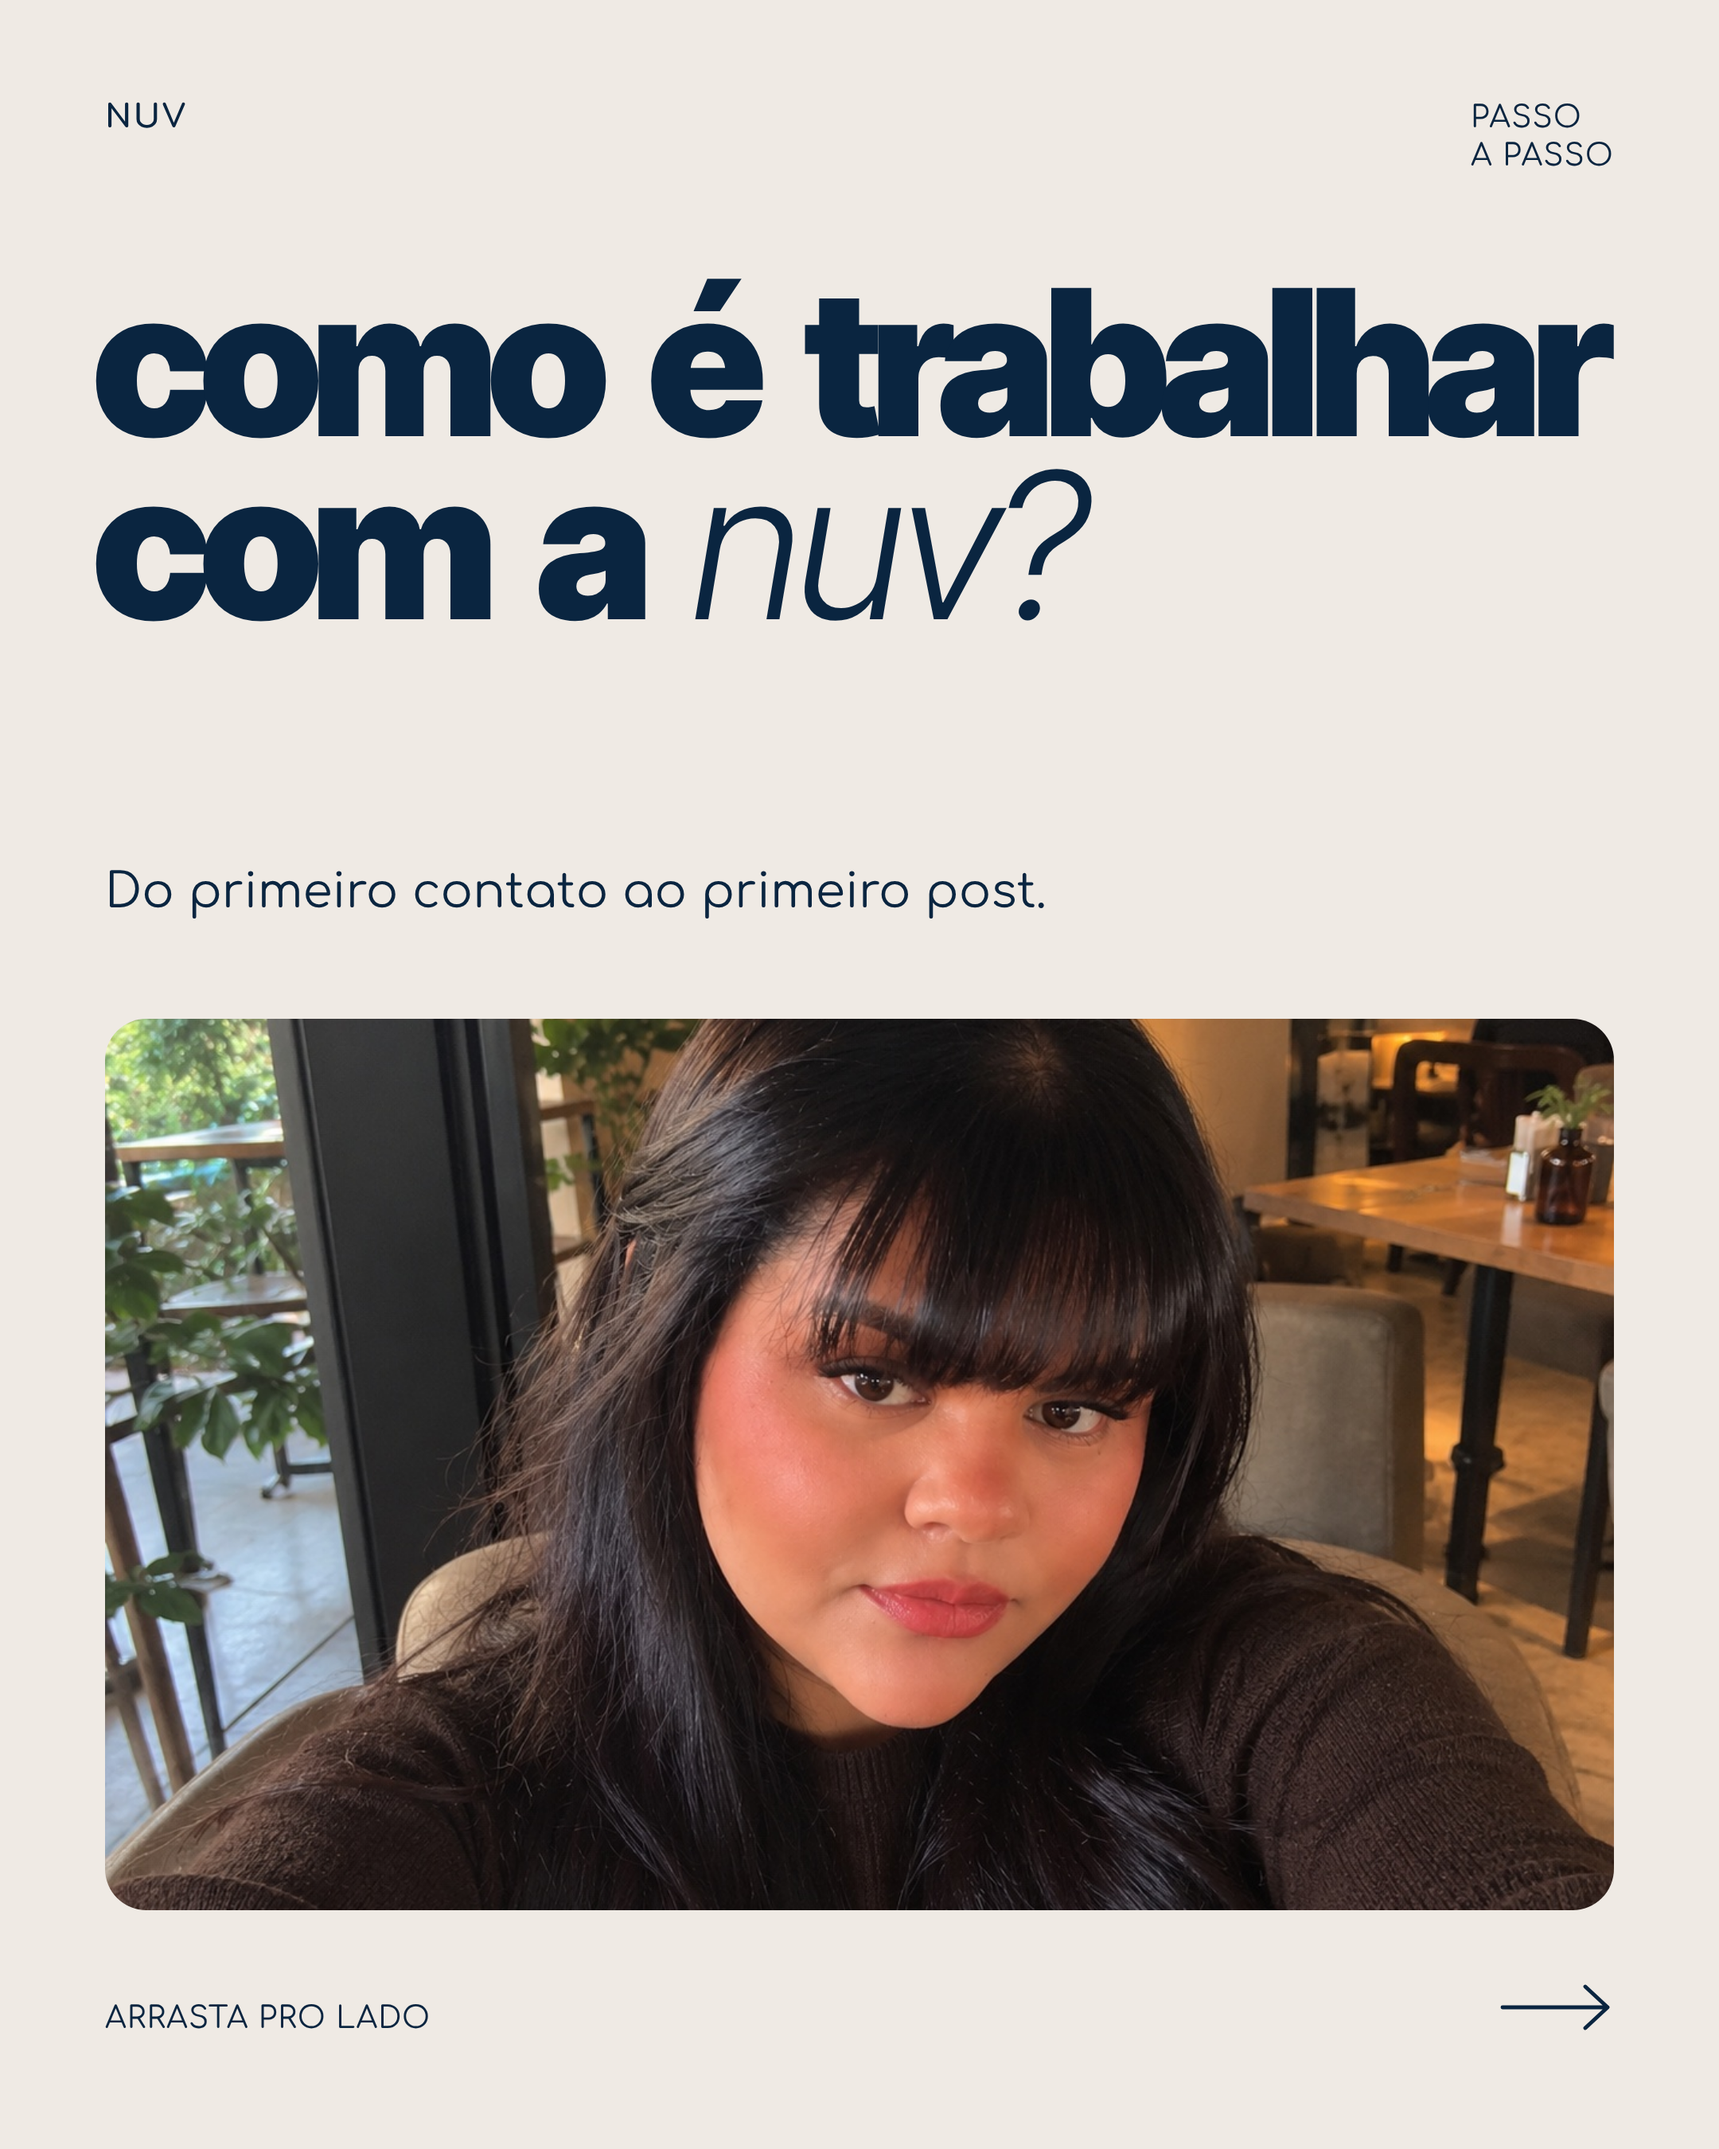
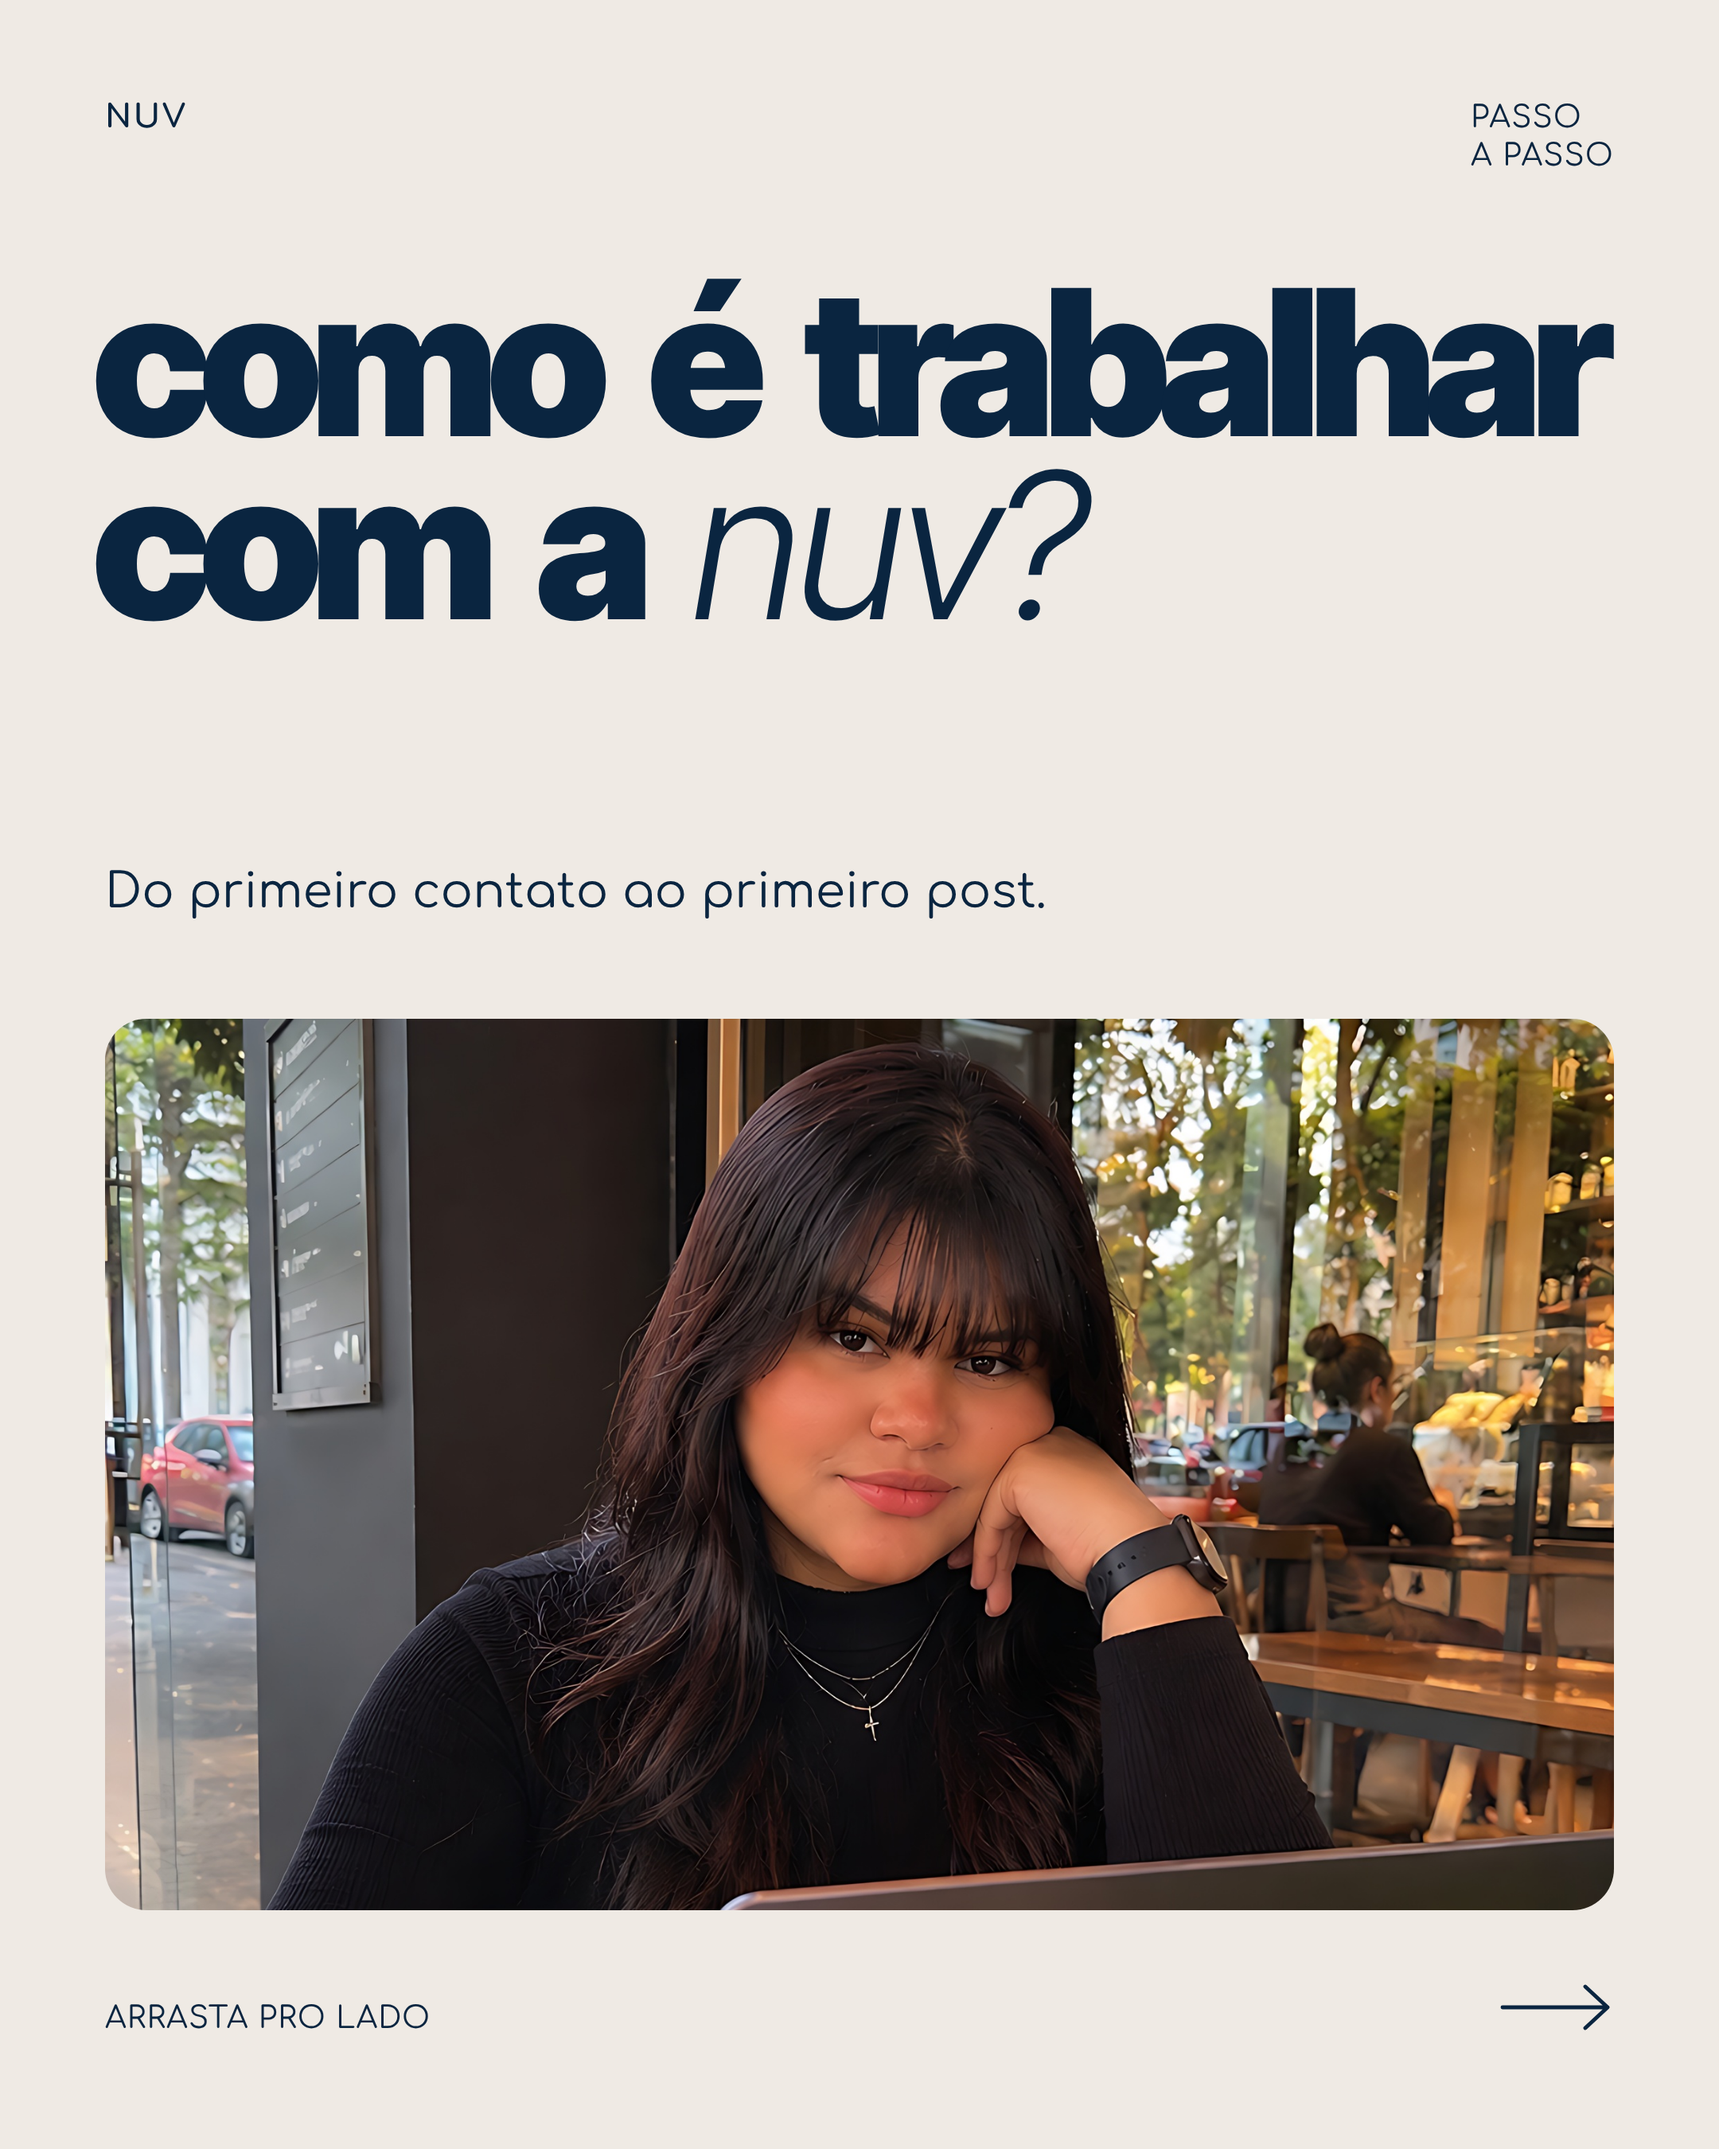
Trello posts: new client photos and textures, fewer repeated images
Claude-Session: https://claude.ai/code/session_01EMPiZm8vwXxfPYZ7GnxN3Y

Changed region(s): [[0.062, 0.4667, 0.9616, 0.9022]]

diff --git a/nuv-posts-trello/index.html b/nuv-posts-trello/index.html
@@ -43,7 +43,10 @@ const IMG = { // [arquivo, largura, altura] das fotos originais
   selfie: ['fotos-hd/selfie-cafe.jpg', 1254, 1254], escada: ['fotos-hd/retrato-escada.jpg', 941, 1672],
   escuro: ['fotos-hd/notebook-escuro.jpg', 736, 1104], mesa: ['fotos-hd/mesa-janela.jpg', 1200, 1616],
   gelado: ['fotos-hd/cafe-gelado.jpg', 1200, 1500], sofa: ['fotos-hd/notebook-sofa.jpg', 1080, 1920],
-  tablet: ['fotos-hd/tablet-cafe.jpg', 1122, 1402], close: ['fotos-hd/close-celular.jpg', 941, 1672],
+  tablet: ['fotos-hd/tablet-cafe.jpg', 1122, 1402],
+  isaNoite: ['fotos-hd/isa-noite.jpg', 1086, 1448], isaNote: ['fotos-hd/isa-notebook.jpg', 1086, 1448], isaRua: ['fotos-hd/isa-rua.jpg', 1086, 1448],
+  mesaAzul: ['fotos-hd/mesa-azul.jpg', 736, 1308], maoCel: ['fotos-hd/mao-celular.jpg', 1038, 1294], blazer: ['fotos-hd/cadeira-blazer.jpg', 922, 1382],
+  ripada: ['fotos-hd/textura-ripada.jpg', 1080, 1846], listras: ['fotos-hd/textura-listras.jpg', 1200, 2133], lua: ['fotos-hd/cidade-lua.jpg', 1159, 2576], close: ['fotos-hd/close-celular.jpg', 941, 1672],
 };
 // foto preenchendo uma caixa w x h; fx/fy = ponto focal (0..1); zoom > 1 aproxima
 const photo = (key, w, h, fx = .5, fy = .5, zoom = 1, extra = '') => {
@@ -97,16 +100,16 @@ const DARKF = 'brightness(.66) contrast(1.12) saturate(.9)';
 const POSTS = {
   // Card "O que a NUV faz por você (serviços, fixar)"
   servicos: [
-    [false, capa({ lab: 'nossos<br>serviços', title: 'o que a nuv faz <em>por você</em>', sub: 'Escolhe o que o seu negócio precisa agora.', ph: { key: 'escada', top: 640, fx: .5, fy: .52 }, foot: 'arrasta pro lado' })],
-    [true, fullA({ dark: true, lab: 'serviço 01', key: 'escuro', fx: .6, filter: 'brightness(.72) contrast(1.1)', title: 'gestão de redes <em>sociais</em>', tw: 700, lead: 'A gente planeja, cria e posta, <b>e você só aprova.</b>', leadAt: 'bottom' })],
+    [false, capa({ lab: 'nossos<br>serviços', title: 'o que a nuv faz <em>por você</em>', sub: 'Escolhe o que o seu negócio precisa agora.', ph: { key: 'isaRua', top: 640, fx: .5, fy: .34 }, foot: 'arrasta pro lado' })],
+    [false, fullA({ lab: 'serviço 01', key: 'maoCel', fx: .3, fy: .5, zoom: 1.08, title: 'gestão de redes <em>sociais</em>', size: 132, tw: 520, lead: 'A gente planeja, cria e posta, <b>e você só aprova.</b>', leadAt: 'bottom', lw: 380 })],
     [false, fullA({ lab: 'serviço 02', key: 'mesa', fy: .45, title: 'sites e <em>landing pages</em>', size: 128, tw: 960, lead: 'Páginas pensadas pra apresentar o seu negócio e <b>transformar visita em contato.</b>', leadTop: 460, lw: 560 })],
-    [true, fullA({ dark: true, lab: 'serviço 03', key: 'tablet', fx: .3, fy: .4, zoom: 1.22, filter: DARKF, title: 'estratégia <em>digital</em>', size: 140, tw: 800, lead: 'A gente olha o seu negócio, define o caminho e <b>organiza o que precisa ser feito.</b>', leadTop: 470, lw: 380 })],
-    [false, fullA({ lab: 'serviço 04', key: 'ceu', fy: .3, title: 'identidade <em>visual</em>', size: 140, lead: 'Cores, fontes e elementos que deixam a sua marca <b>reconhecível em qualquer lugar.</b>', leadTop: 470, lw: 640 })],
-    [true, cta({ title: 'ficou na <em>dúvida?</em>', text: { top: 410, t: 'Me conta o momento do seu negócio no direct, que eu te indico <b>o melhor caminho</b> e mando o orçamento.' }, ph: { key: 'gelado', fx: .5, fy: .5 } })],
+    [true, fullA({ dark: true, lab: 'serviço 03', key: 'lua', fx: .5, fy: .22, filter: 'brightness(.9)', title: 'estratégia <em>digital</em>', size: 140, tw: 800, lead: 'A gente olha o seu negócio, define o caminho e <b>organiza o que precisa ser feito.</b>', leadTop: 470, lw: 400, leadLeft: 440 })],
+    [false, fullA({ lab: 'serviço 04', key: 'blazer', fy: .05, title: 'identidade <em>visual</em>', size: 140, lead: 'Cores, fontes e elementos que deixam a sua marca <b>reconhecível em qualquer lugar.</b>', leadTop: 470, lw: 640 })],
+    [true, cta({ title: 'ficou na <em>dúvida?</em>', text: { top: 410, t: 'Me conta o momento do seu negócio no direct, que eu te indico <b>o melhor caminho</b> e mando o orçamento.' }, ph: { key: 'mesaAzul', fx: .6, fy: .35 } })],
   ],
   // Card "Como é trabalhar com a NUV"
   como_trabalhar: [
-    [false, capa({ lab: 'passo<br>a passo', title: 'como é trabalhar<br>com a <em>nuv?</em>', size: 128, sub: 'Do primeiro contato ao primeiro post.', ph: { key: 'selfie', top: 640, fx: .5, fy: .42 }, foot: 'arrasta pro lado' })],
+    [false, capa({ lab: 'passo<br>a passo', title: 'como é trabalhar<br>com a <em>nuv?</em>', size: 128, sub: 'Do primeiro contato ao primeiro post.', ph: { key: 'isaNote', top: 640, fx: .5, fy: .38 }, foot: 'arrasta pro lado' })],
     [true, fullA({ dark: true, lab: 'etapa 01', key: 'close', fx: .5, fy: .62, zoom: 1.15, filter: DARKF, title: 'a <em>conversa</em>', size: 170, lead: 'A gente começa entendendo <b>o seu negócio, o seu cliente</b> e onde você quer chegar.', leadAt: 'bottom', lw: 440 })],
     [false, fullA({ lab: 'etapa 02', key: 'mesa', fy: .45, title: 'o <em>plano</em>', size: 190, lead: 'Estratégia e calendário do mês, pra você <b>saber tudo antes de sair.</b>', leadTop: 420, lw: 560 })],
     [true, fullA({ dark: true, lab: 'etapa 03', key: 'escuro', fx: .6, filter: 'brightness(.72) contrast(1.1)', title: 'a <em>criação</em>', size: 170, lead: 'Roteiro, design, edição e legenda, <b>tudo com a cara da sua marca.</b>', leadAt: 'bottom' })],
@@ -116,8 +119,8 @@ const POSTS = {
   ],
   // Card "Saiu do forno na NUV (portfólio de conteúdos, fixar)": grade com espaços pros conteúdos dos clientes
   saiu_do_forno: [
-    [false, capa({ lab: 'portfólio<br>do mês', title: 'saiu do forno <em>na nuv</em>', sub: 'O que foi pro ar nos perfis dos nossos clientes esse mês.', ph: { key: 'setup', top: 640, fx: .5, fy: .62 }, foot: 'arrasta pro lado' })],
-    [false, `${BRAND(C.navy)}${LAB('portfólio<br>do mês', C.navy)}
+    [false, capa({ lab: 'portfólio<br>do mês', title: 'saiu do forno <em>na nuv</em>', sub: 'O que foi pro ar nos perfis dos nossos clientes esse mês.', ph: { key: 'isaNoite', top: 640, fx: .5, fy: .36 }, foot: 'arrasta pro lado' })],
+    [false, `${box(0, 0, 1080, 1350, photo('listras', 1080, 1350, .5, .5))}<div class="abs" style="left:40px;top:40px;right:40px;bottom:40px;background:${C.off};border-radius:24px"></div>${BRAND(C.navy)}${LAB('portfólio<br>do mês', C.navy)}
       <div class="abs" style="left:66px;right:66px;top:250px;display:flex;gap:24px">
         ${['sindicato', 'despacho aduaneiro', 'planejamento financeiro'].map(n => `<div style="flex:1">
           <div style="height:560px;border-radius:18px;border:2.5px dashed ${C.indigo};display:flex;align-items:center;justify-content:center;text-align:center;color:${C.indigo};font-size:20px;letter-spacing:.06em;text-transform:uppercase;line-height:1.5;padding:20px">inserir<br>conteúdo<br>do cliente</div>
@@ -127,7 +130,10 @@ const POSTS = {
   ],
   // Card "Sites que saíram do forno (portfólio de sites)": um site por slide
   sites: [
-    [false, capa({ lab: 'portfólio<br>de sites', title: 'sites que saíram do forno <em>por aqui</em>', size: 140, sub: 'Um lugar só do seu negócio na internet.', ph: { key: 'sofa', top: 740, fx: .5, fy: .55 }, foot: 'arrasta pro lado' })],
+    [false, `${box(0, 0, 1080, 1350, photo('ripada', 1080, 1350, .5, .5))}${BRAND(C.navy)}${LAB('portfólio<br>de sites', C.navy)}
+      <div class="abs H" style="left:58px;top:330px;width:960px;font-size:170px;color:${C.navy}">sites que saíram do forno <em>por aqui</em></div>
+      <div class="abs lead" style="left:66px;top:1000px;width:700px">Um lugar só do seu negócio na internet.</div>
+      ${FOOT('arrasta pro lado', C.navy)}${ARROW(C.navy)}`],
     ...[['agência de viagens', 'Apresentar os roteiros e levar pro WhatsApp.'], ['professora universitária', 'Reunir pesquisas, aulas e contato num lugar só.']].map(([n, obj]) => [false, `${BRAND(C.navy)}${LAB('portfólio<br>de sites', C.navy)}
       <div class="abs" style="left:110px;top:230px;width:860px">
         <div style="background:#1b1d22;border-radius:26px 26px 6px 6px;padding:22px 22px 26px">
